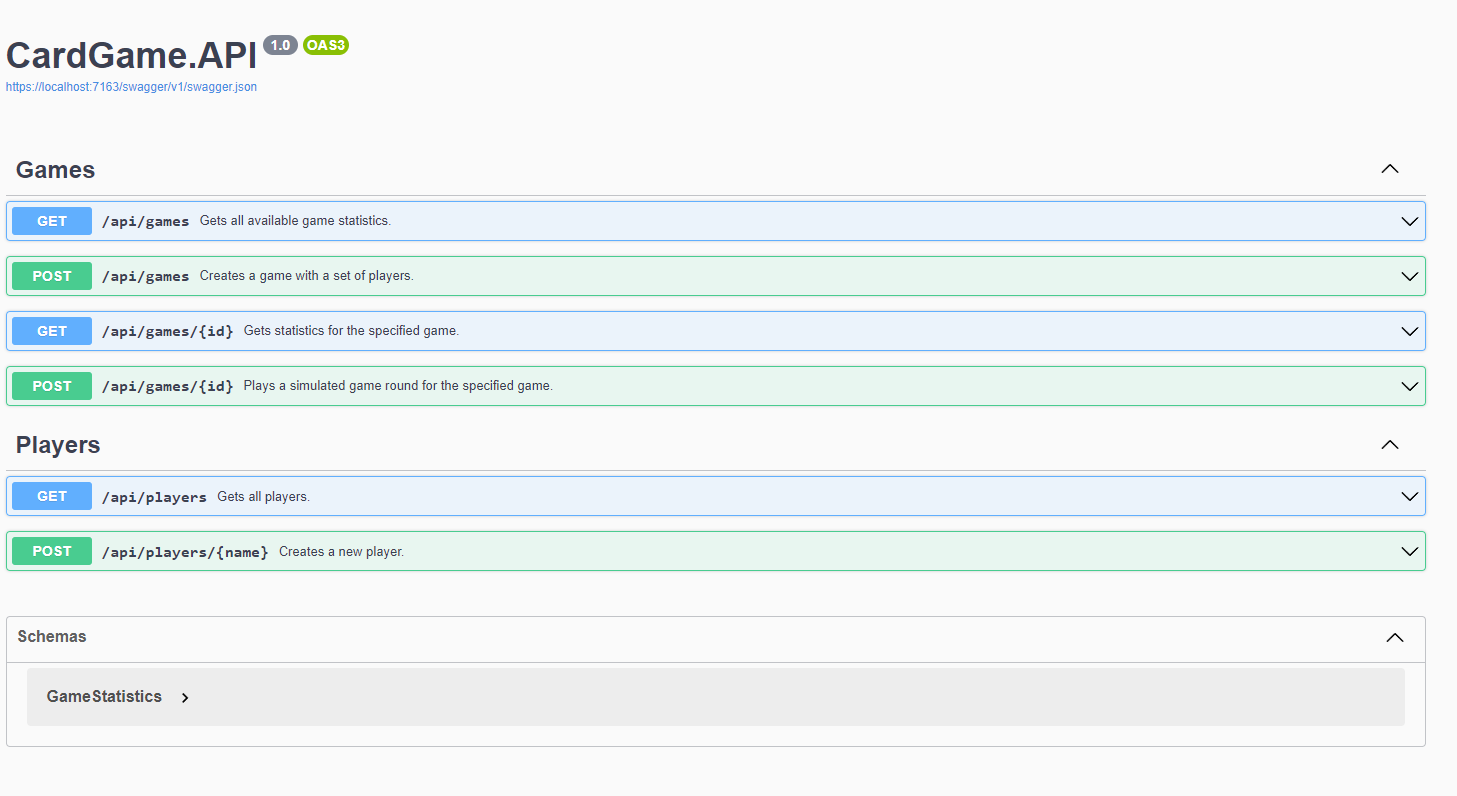
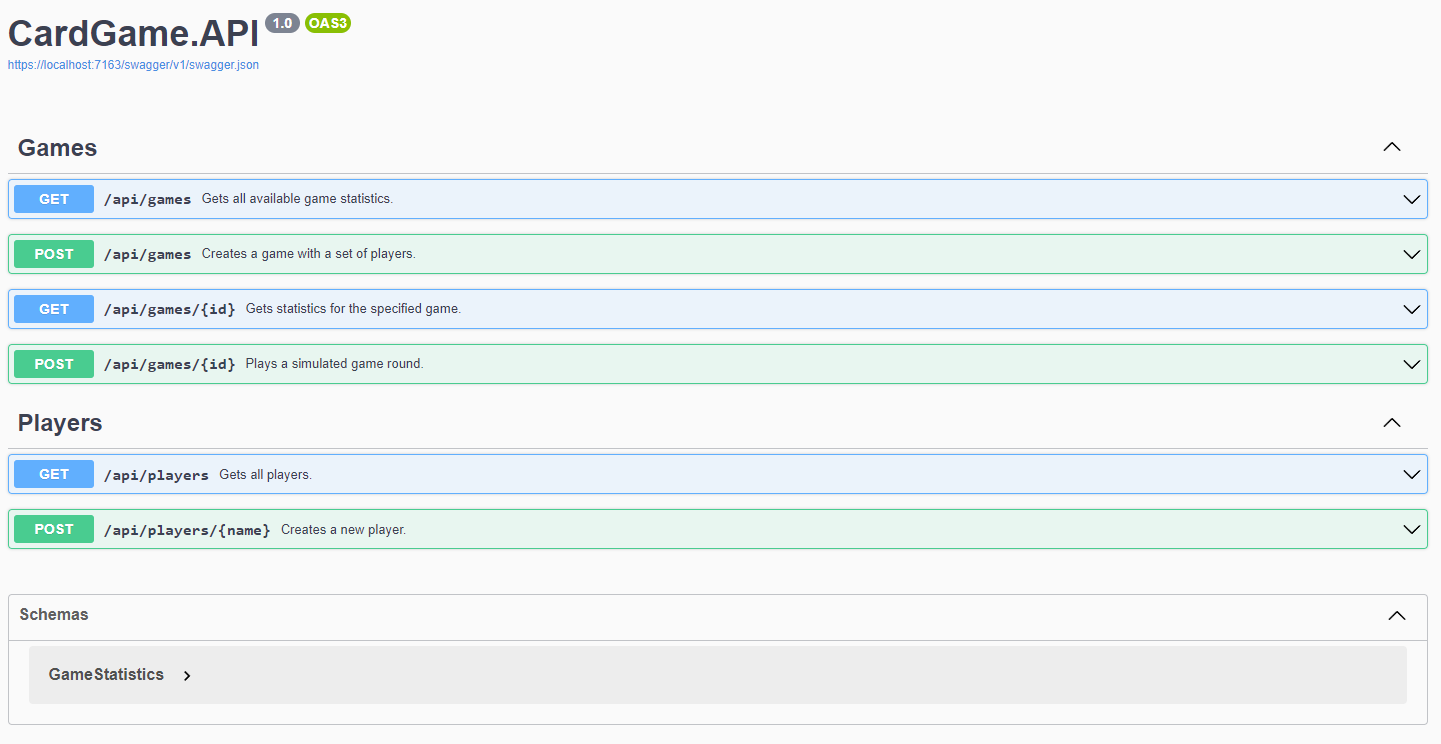
Minor documentation change

diff --git a/src/CardGame.API/Controllers/GamesController.cs b/src/CardGame.API/Controllers/GamesController.cs
@@ -122,7 +122,7 @@ namespace CardGame.API.Controllers
         }
 
         /// <summary>
-        /// Plays a simulated game round for the specified game.
+        /// Plays a simulated game round.
         /// </summary>
         /// <param name="id">The game id to simulate round for.</param>
         /// <returns>A <see cref="Task{TResult}"/> representing the result of the asynchronous operation.</returns>
